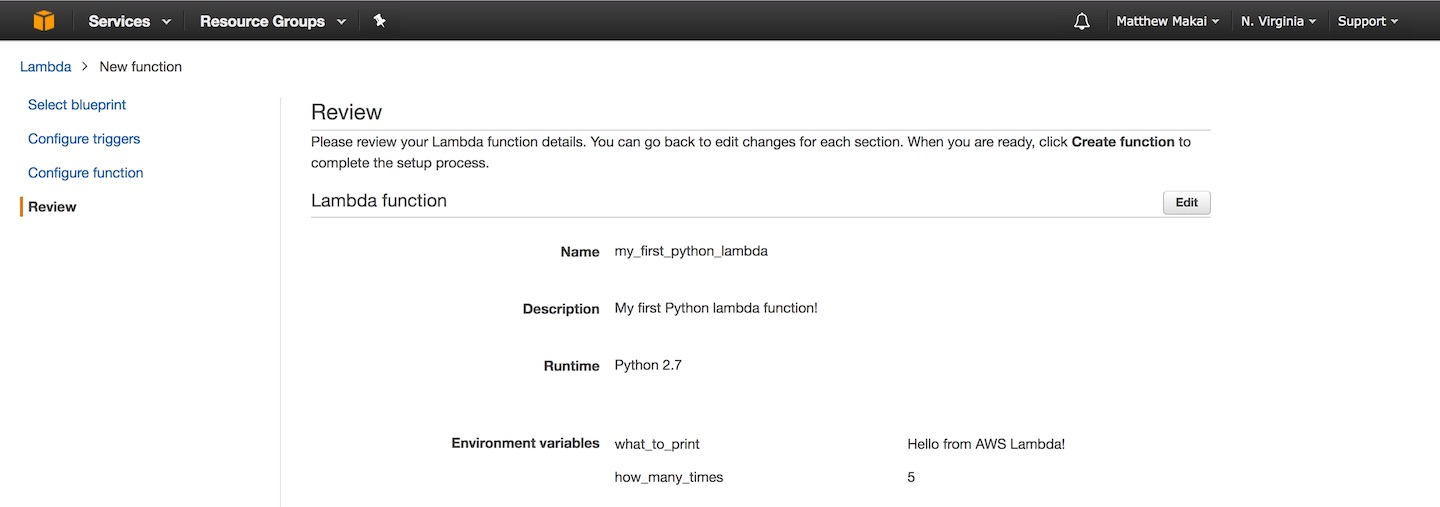
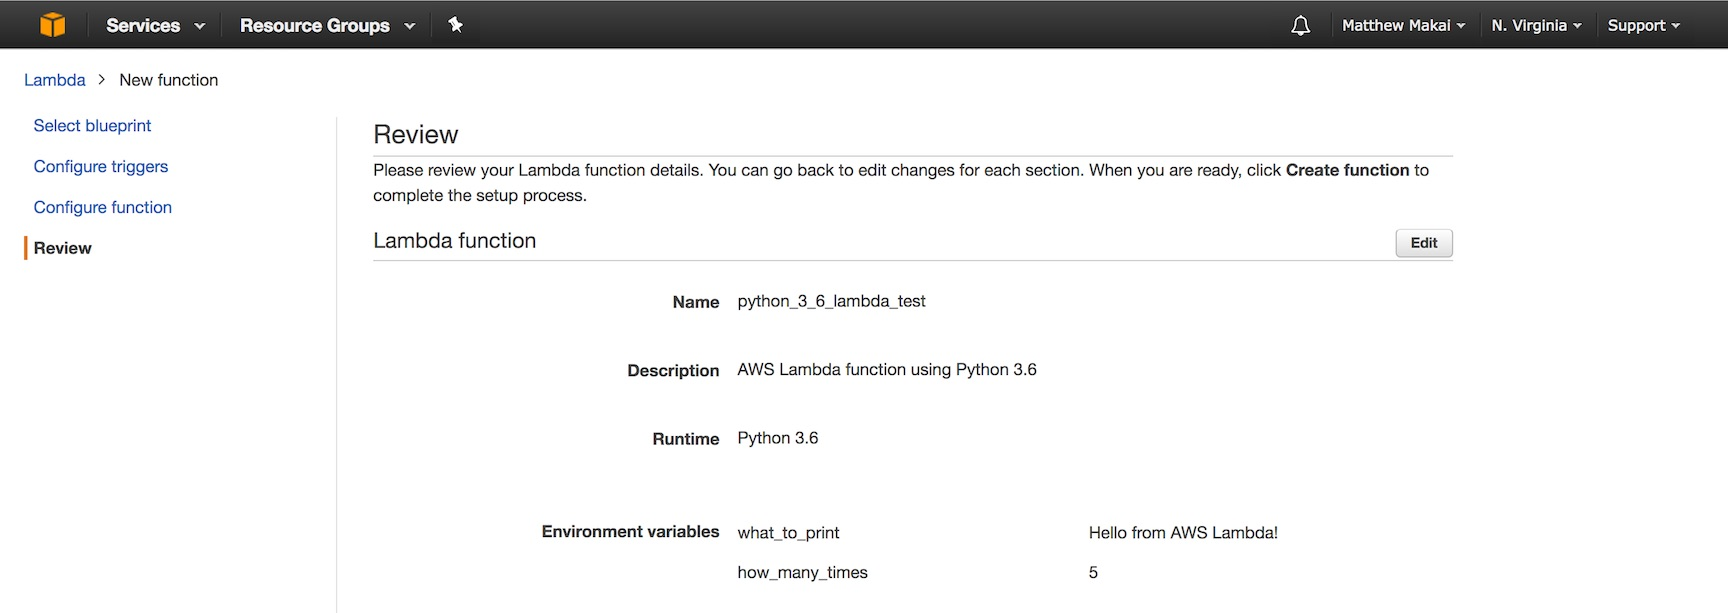
finish up aws lambda python 3.6 post

diff --git a/theme/templates/blog/aws-lambda-python-3-6.html b/theme/templates/blog/aws-lambda-python-3-6.html
@@ -1,5 +1,6 @@
 <a href="/aws-lambda.html" class="list-group-item smaller-item">AWS Lambda</a>
 <a href="/devops.html" class="list-group-item smaller-item">DevOps</a>
-<a href="/source-control.html" class="list-group-item smaller-item">Source Control</a>
-<a href="/git.html" class="list-group-item smaller-item">Git</a>
+<a href="/learning-programming.html" class="list-group-item smaller-item">Learning Programming</a>
+<a href="/why-use-python.html" class="list-group-item smaller-item">Why Use Python?</a>
+<a href="/python-2-or-3.html" class="list-group-item smaller-item">Python 2 or 3?</a>
 
